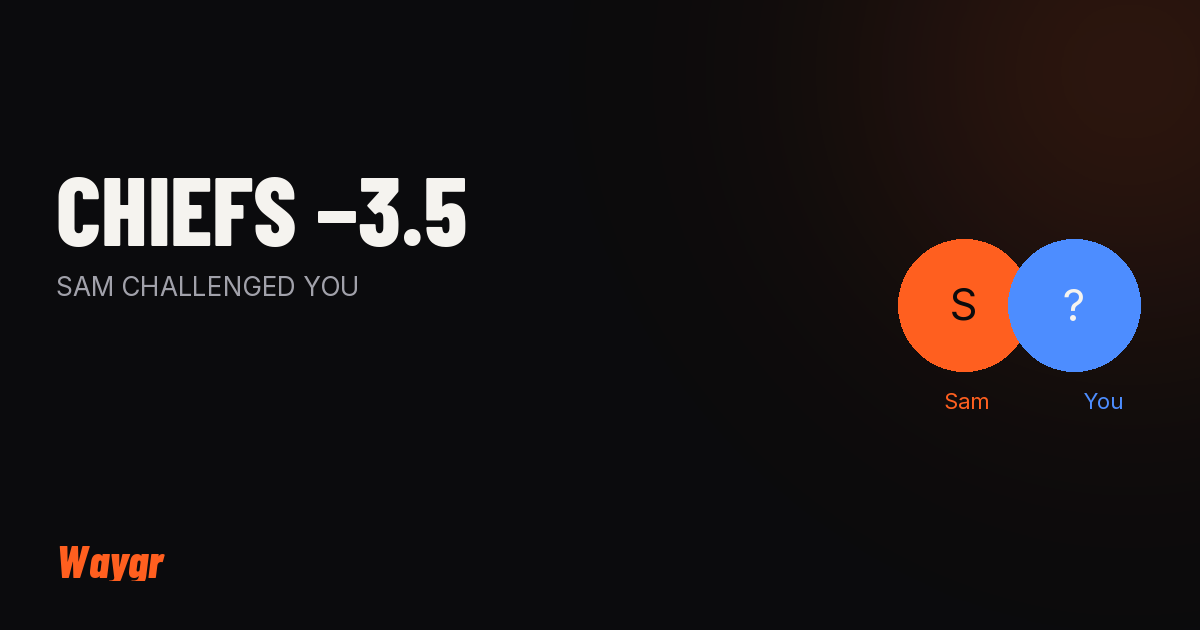
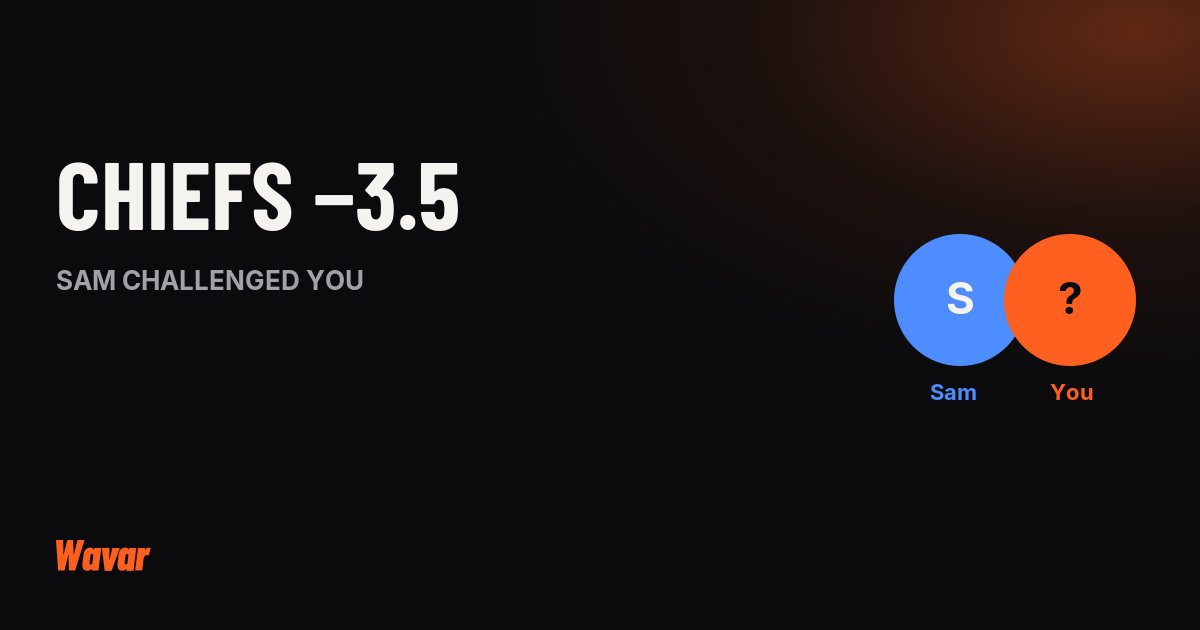
fix(brand): B1 link-preview You=orange / them=blue
QR FAIL CLOSED: Sam was orange and You was rival blue on
template-link-preview-1200x630. Swap to DESIGNER-GATE lock;
regenerate PNG. Quiet Chris.

diff --git a/docs/brand/DESIGNER-GATE.md b/docs/brand/DESIGNER-GATE.md
@@ -26,3 +26,7 @@ Direction: `docs/BRAND-BRIEF.md` + `docs/waygr-brand-preview.png`. Tokens + craf
 ## Cursor apply
 
 Wire icons + OG / share cards from this pack in the Slice 6 CA. Do not invent a second palette or redraw the W.
+
+## QR B1 fix (2026-09-24)
+
+Link preview: **You = orange `#FF5F1F`** (ink letter); **them/challenger = rival blue `#4D8DFF`**. Regenerated `template-link-preview-1200x630.svg` + `.png`.
